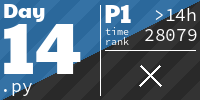
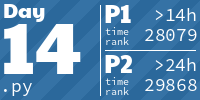
Day 14.2 & 16

diff --git a/2024/Day 16/sol.py b/2024/Day 16/sol.py
@@ -1,0 +1,39 @@
+from sys import stdin
+import re
+from itertools import combinations
+import math
+import networkx as nx
+
+sol1 = 0
+sol2 = 0
+lines = []
+grid = {}
+E = 0
+S = 0
+for line in stdin:
+    lines.append(line.strip())
+    for x, c in enumerate(lines[-1]):
+        grid[(x,len(lines)-1)] = c
+        if c == 'E':
+            E = (x,len(lines)-1)
+        if c == 'S':
+            S = (x,len(lines)-1)
+g = nx.DiGraph()
+for c in grid:
+    for d in [(1,0), (-1,0), (0,1), (0,-1)]:
+        g.add_edge((c,d), (c,(0,0)), weight=0)
+        g.add_edge((c,(0,0)), (c,d), weight=1000)
+        a = c[0] + d[0]
+        b = c[1] + d[1]
+        if grid[c] != '#' and grid[(a,b)] != '#':
+            g.add_edge((c,d), ((a,b), d), weight=1)
+paths = list(nx.all_shortest_paths(g, (S, (1,0)), (E, (0,0)), "weight"))
+for i in range(len(paths[0])-1):
+    sol1 += g.edges[(paths[0][i], paths[0][i+1])]["weight"]
+se = set()
+for p in paths:
+    for pl in p:
+        se.add(pl[0])
+sol2 = len(se)
+print(sol1)
+print(sol2)

diff --git a/2024/Day 14/sol.py b/2024/Day 14/sol.py
@@ -30,5 +30,25 @@ for _ in range(3):
     #    print(*l)
     brett = list(zip(*brett[::-1]))
 
+found = False
+i = -1
+while not found:
+    i += 1
+    brett2 = [["." for _ in range(tall)] for _ in range(wide)]
+    for line in lines:
+        e = line.strip().split(" ")
+        a = e[0].split("=")[1].split(",")
+        b = e[1].split("=")[1].split(",")
+        x = (int(b[0]) * i + int(a[0])) % wide
+        y = (int(b[1]) * i + int(a[1])) % tall
+        brett2[x][y] = "#"
+    for l in brett2:
+        if ("#"*20) in ''.join(l):
+            print()
+            print(i)
+            for l in [brett2[i] for i in range(len(brett2))]:
+                print(*l)
+            found = True
+
 print(sol1)
 print(sol2)

diff --git a/2024/Day 15/sol.py b/2024/Day 15/sol.py
@@ -1,0 +1,14 @@
+from sys import stdin
+import re
+from itertools import combinations
+import math
+
+sol1 = 0
+sol2 = 0
+lines = []
+
+for line in stdin:
+    lines.append(line.strip())
+
+print(sol1)
+print(sol2)

diff --git a/README.md b/README.md
@@ -10,10 +10,10 @@ The graphic below has been created with [aoc-tiles](.pre-commit-config.yaml) scr
 
 <!-- AOC TILES BEGIN -->
 <h1 align="center">
-  Advent of Code - 100/478 ⭐
+  Advent of Code - 103/482 ⭐
 </h1>
 <h1 align="center">
-  2024 - 23 ⭐ - Python
+  2024 - 26 ⭐ - Python
 </h1>
 <a href="2024/Day 1/sol.py">
   <img src=".aoc_tiles/tiles/2024/01.png" width="161px">
@@ -56,6 +56,12 @@ The graphic below has been created with [aoc-tiles](.pre-commit-config.yaml) scr
 </a>
 <a href="2024/Day 14/sol.py">
   <img src=".aoc_tiles/tiles/2024/14.png" width="161px">
+</a>
+<a href="2024/Day 15/sol.py">
+  <img src=".aoc_tiles/tiles/2024/15.png" width="161px">
+</a>
+<a href="2024/Day 16/sol.py">
+  <img src=".aoc_tiles/tiles/2024/16.png" width="161px">
 </a>
 <h1 align="center">
   2023 - 43 ⭐ - Python
